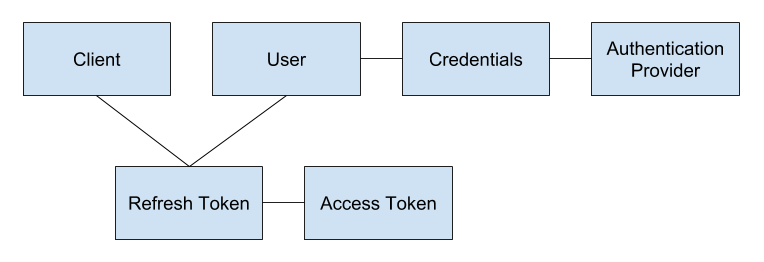
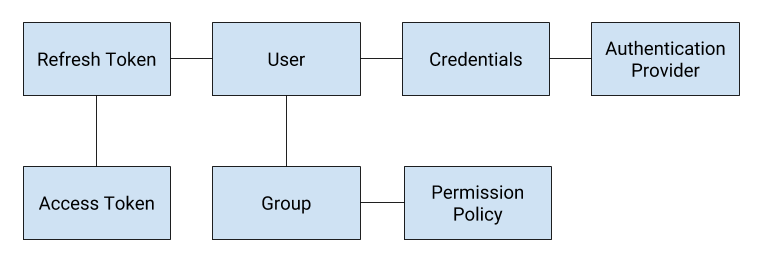
Add permissions

diff --git a/docs/auth_index.md b/docs/auth_index.md
@@ -25,21 +25,26 @@ Each person is a user in the system. To log in as a specific user, authenticate 
 
 ### Owner
 
-The first user to log in to Home Assistant will be marked as the owner. This user is able to manage users.
+The user that is created during onboarding will be marked as "owner". The owner is able to manage other users and will always have access to all permissions.
 
-## Clients
+## Groups
 
-Clients are applications that users use to access the Home Assistant API. Each client has a client identifier and a redirect uri. The redirect uri is used to redirect the user after it has successfully authorized.
+Users are a member of one or more groups. Group membership is how a user is granted permissions.
+
+## Permission Policy
+
+This is the permission policy that describes to which resources a group has access. For more information about permissions and policies, see [Permissions](auth_permissions.md).
 
 ## Access and refresh tokens
 
-The client will be provided with an authorization code when a user successfully authorizes with Home Assistant. This code can be used to retrieve an access and a refresh token. The access token will have a limited lifetime while refresh tokens will remain valid until a user deletes it.
+Applications that want to access Home Assistant will ask the user to start an authorization flow. The flow results in an authorization code when a user successfully authorizes the application with Home Assistant. This code can be used to retrieve an access and a refresh token. The access token will have a limited lifetime while refresh tokens will remain valid until a user deletes it.
 
 The access token is used to access the Home Assistant APIs. The refresh token is used to retrieve a new valid access token.
 
 ### Refresh token types
 
-Refresh token has 3 different types:
-- *Normal*: is generated by a success log in request, and will be sent to user and possessed by user.
-- *System*: can only be generated by system user.
-- *Long-lived Access Token*: such refresh token is generated by user, but will not delivery to user, however the access token generated by this refresh token will send to user.
+There are three different types of refresh tokens:
+
+- *Normal*: These are the tokens that are generated when a user authorizes an application. The application will hold on to these tokens on behalf of the user.
+- *Long-lived Access Token*: These are refresh tokens that back a long lived access token. They are created internally and never exposed to the user.
+- *System*: These tokens are limited to be generated and used by system users like Hass.io. They are never exposed to the user.

diff --git a/docs/auth_permissions.md b/docs/auth_permissions.md
@@ -1,0 +1,57 @@
+---
+title: "Permissions"
+---
+
+> This is an experimental feature that is not enabled or enforced yet
+
+Permissions limit the things a user has access to or can control. Permissions are attached to groups, of which a user can be a member. The combined permissions of all groups decides what a user can and cannot see or control.
+
+## General permission structure
+
+Policies are dictionaries that at the root level consist of different categories of permissions. In the current implementation this is limited to just entities.
+
+```python
+{
+  "entities": …
+}
+```
+
+Each category can further split into subcategories that describe parts of that category.
+
+```python
+{
+  "entities": {
+    "domains": …,
+    "entity_ids": …
+  }
+}
+```
+
+
+If a category is ommitted, the user will not have permission to that category.
+
+When defining a policy, any value at any place can be replaced with `True`, `False` or `None`. `True` means that permission is granted, `False` means that access is denied and `None` means no opinion.
+
+Note that if we apply just a single policy, `False` and `None` result in the same result: access is denied. If a user is a member of multiple groups, the permission policies will be merged. In that case, a `False` overrules all other values of the other policies and access is denied:
+
+ - `True` merged with `None` becomes `True`
+ - `True` merged with `False` becomes `False`
+
+## Entities
+
+Entity permissions can be set on a per entity and per domain basis using the subcategories `entity_ids` and `domains`. Granting access to an entity means a user will be able to read the state and control it.
+
+If an entity is specified in both the `entity_ids` and `domains` subcategory, the `entity_ids` result will be used, unless it is `None`. In the following example, the user will have access to all light entities except for `light.kitchen`.
+
+```python
+{
+  "entities": {
+    "domains": {
+      "light": True
+    },
+    "entity_ids": {
+      "light.kitchen": False
+    }
+  }
+}
+```
